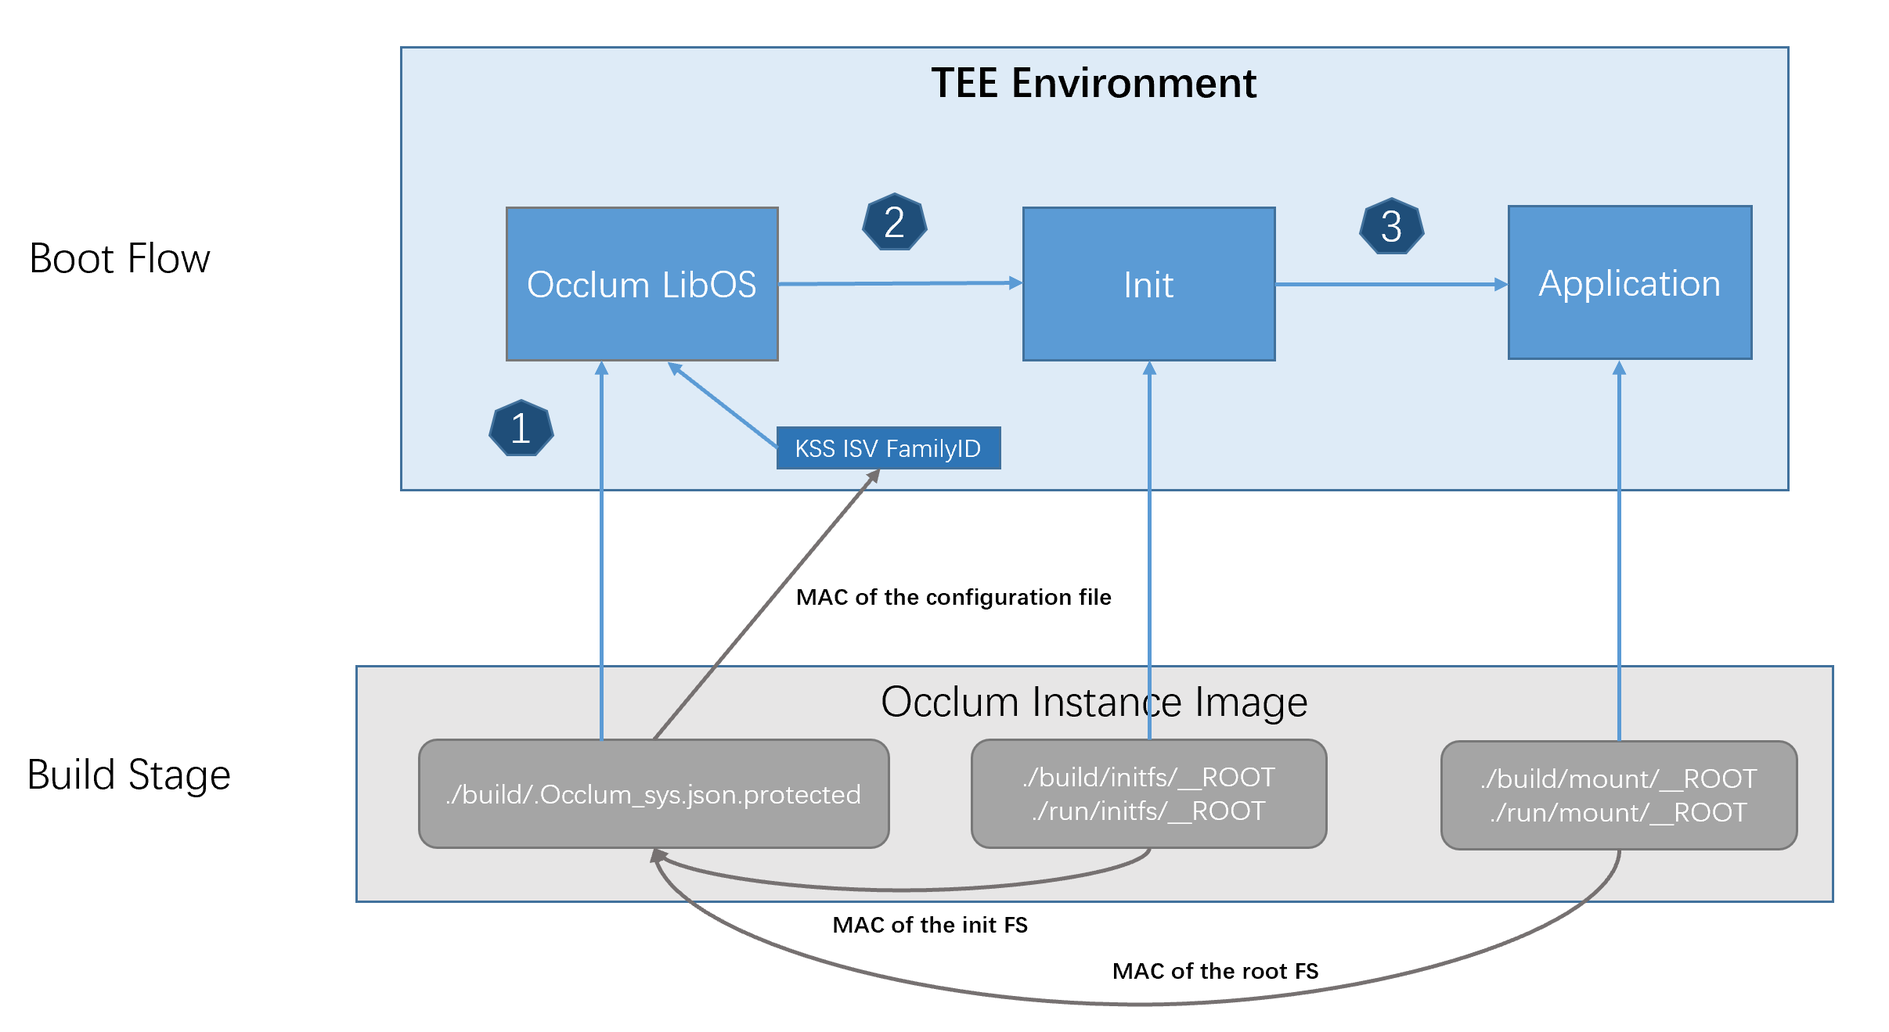
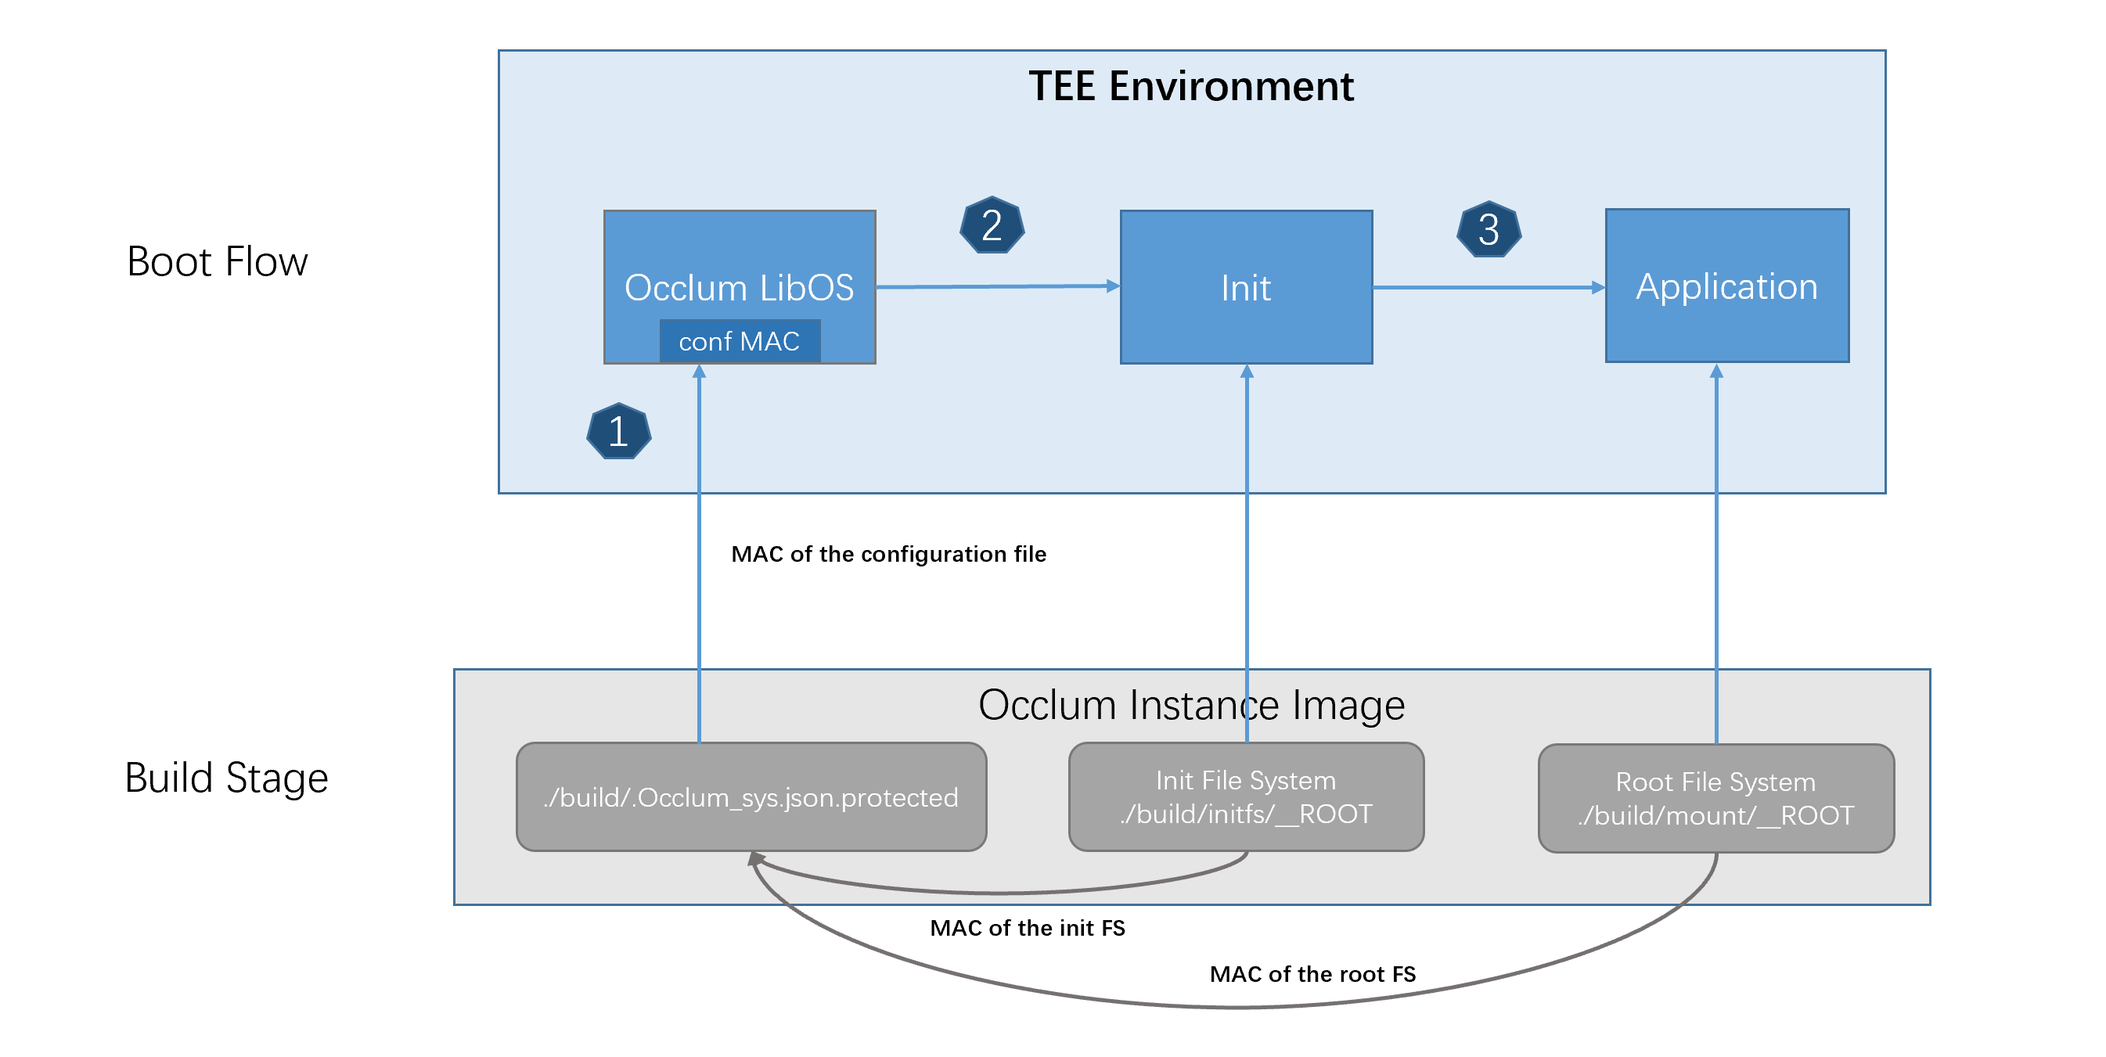
Update content for Occlum

diff --git a/docs/readthedocs/docs/source/occlum_configuration.md b/docs/readthedocs/docs/source/occlum_configuration.md
@@ -1,159 +1,112 @@
 # Occlum Configuration
 
-Occlum can be configured easily via a configuration file named `Occlum.yaml`, which is generated by the `occlum init` command in the Occlum instance directory. The user can modify `Occlum.yaml` to configure Occlum. The template of `Occlum.yaml` is shown below.
+Occlum can be configured easily via a configuration file named `Occlum.json`, which is generated by the `occlum init` command in the Occlum instance directory. The user can modify `Occlum.json` to configure Occlum. The template of `Occlum.json` is shown below.
 
-```yaml
-# All the settings below can only take effect after `occlum build`.
-resource_limits:
-  # The number of OS threads created for this instance.
-  num_of_cpus: 128
-  # The stack size of LibOS kernel.
-  kernel_space_stack_size: 16MB
-  # The heap size of LibOS kernel.
-  # With EDMM support, choose "init" size based on the expected initialization time. And increase the "max" field if memory insufficiency occurs.
-  # Without EDMM support, increase the "init" field if memory insufficiency occurs. And the "max" field is ignored.
-  kernel_space_heap_size:
-    # Reserved and committed during the initialization stage. The more, the longer it takes to initialize.
-    init: 32MB
-    # Only committed when necessary. Only valid with EDMM support.
-    max:  512MB
-  # The total size of enclave memory available to the user applications running in LibOS.
-  # With EDMM support, choose "init" size based on the expected initialization time. And increase the "max" field if memory insufficiency occurs.
-  # Without EDMM support, increase the "init" field if memory insufficiency occurs. And the "max" field is ignored.
-  user_space_size:
-    # Reserved and committed during the initialization stage. The more, the longer it takes to initialize.
-    init: 256MB
-    # Only committed when necessary. Only valid with EDMM support.
-    max:  64GB
-process:
-  # Default stack size for each process. If not sure, don't modify it.
-  default_stack_size: 4MB
-  # Default heap size for each process. If not sure, don't modify it.
-  default_heap_size: 32MB
-
-# Entry points
-# Specify all valid absolute <path> in `occlum run <path> <args>`.
-# This prevents outside attackers from executing arbitrary commands inside an
-# Occlum-powered enclave.
-entry_points:
-  - /bin
-
-# Environment variables
-#
-# This gives a list of environment variables for the "root" process started
-# by `occlum run` or `occlum exec` command.
-env:
-  # The default env vars given to each "root" LibOS process. As these env vars
-  # are specified in this config file, they are considered trusted.
-  default:
-    - OCCLUM=yes
-  # The untrusted env vars that are captured by Occlum from the host environment
-  # and passed to the "root" LibOS processes. These untrusted env vars can
-  # override the trusted, default envs specified above.
-  # For example, `OCCLUM=no occlum run xxx` can pass the env OCCLUM=no to the process
-  # running in LibOS with below settings.
-  #     env:
-  #       default:
-  #         - OCCLUM=yes
-  #       untrusted:
-  #         - OCCLUM
-  untrusted:
-    - EXAMPLE
-
-# Enclave metadata
-# If not sure, just keep them no change
-metadata:
-  # Enclave signature structure's ISVPRODID field
-  product_id: 0
-  # Enclave signature structure's ISVSVN field
-  version_number: 0
-  # Whether the enclave is debuggable through special SGX instructions.
-  # If set to false, no log could be output.
-  # For production enclave, it is IMPORTANT to set this value to false.
-  debuggable: true
-  # SGX Key Separation and Sharing feature support.
-  # Please always keep it as true.
-  enable_kss: true
-  # Enclave signature structure's ISVEXTPRODID field.
-  # It is separated as two 16 bytes strings.
-  ext_prod_id:
-    high: '0x0'
-    low: '0x0'
-  # Whether to turn on PKU feature in Occlum
-  # Occlum uses PKU for isolation between LibOS and userspace program,
-  # It is useful for developers to detect potential bugs.
-  #
-  # "pkru" = 0: PKU feature must be disabled
-  # "pkru" = 1: PKU feature must be enabled
-  # "pkru" = 2: PKU feature is enabled if the platform supports it
-  pkru: 0
-
-# Mount points and their file systems
-mount:
-  # RootFS mount point and file systems.
-  # Generally, just don't change it.
-  - target: /
-    type: unionfs
-    options:
-      layers:
-        # The read-only layer which is generated in `occlum build`
-        - target: /
-          type: sefs
-          source: ./build/mount/__ROOT
-          options:
-            MAC: ''
-        # The read-write layer whose content is produced when running the LibOS
-        - target: /
-          type: sefs
-          source: ./run/mount/__ROOT
-          # options:
-          # The SEFS just uses MRSIGNER to drived key by default, so the data can
-          # be shared between same enclave signer on the same machine.
-          # If you want more secure scheme, you can set the autokey_policy field
-          # to 1 to enforcing the key is derived by MRSIGNER|MRENCLAVE|ISVFAMILYID.
-          # So the data can only be accessed by the enclave itself.
-          #  autokey_policy: 1
-  #
-  # HostFS mount
-  # It provides a channel to exchange files between Host FS and LibOS FS.
-  # Just note, with this mount, the files written to the target in the LibOS
-  # is recognizable to users in the Host thus may introduce security issue.
-  #
-  # For example, below section mount the occlum_instance directory in the Host FS
-  # to the path /host in the LibOS FS.
-  # It is disabled in default. Uncomment it if you are very sure about it.
-  # - target: /host
-  #   type: hostfs
-  #   source: .
-  #
-  # Async FS mount
-  # - target: /sfs
-  #   type: async_sfs
-  #   source: ./run/async_sfs_image
-  #   options:
-  #     total_size: 4GB
-
-# Untrusted Unix domain socket
-# Besides the common Unix domain socket support that both ends are created in the same
-# Occlum instance, the Untrusted Unix domain socket can support cross-world connection by
-# mapping a libos socket address with the host socket address. In this way, a Unix domain
-# socket created in Occlum can communicate with a Unix domain socket in the host OS or in
-# another Occlum instance.
-# Uncomment and customize below if you are very sure about it.
-#
-# untrusted_unix_socks:
-# The libos path and the host path correspond to the same host sock file.
-# The host side should use the host path and libos side should use the libos path.
-#
-# Specify socket file in absolute path
-  # - host: /tmp/occlum/test.sock
-  #   libos: /root/test.sock
-# Or any files in the path
-  # - host: /tmp/root/
-  #   libos: /root/
-# Or the host path can be a relative path and is relative to the current Occlum instance dir.
-  # - host: ../test.sock
-  #   libos: /tmp/test.sock
+```json
+{
+    // Resource limits
+    "resource_limits": {
+        // The total size of enclave memory available to LibOS processes
+        "user_space_size": "256MB",
+        // The heap size of LibOS kernel
+        "kernel_space_heap_size": "32MB",
+        // The stack size of LibOS kernel
+        "kernel_space_stack_size": "1MB",
+        // The max number of LibOS threads/processes
+        "max_num_of_threads": 32
+    },
+    // Process
+    "process": {
+        // The stack size of the "main" thread
+        "default_stack_size": "4MB",
+        // The max size of memory allocated by brk syscall
+        "default_heap_size": "16MB",
+        // The max size of memory by mmap syscall (OBSOLETE. Users don't need to modify this field. Keep it only for compatibility)
+        "default_mmap_size": "32MB"
+    },
+    // Entry points
+    //
+    // Entry points specify all valid path prefixes for <path> in `occlum run
+    // <path> <args>`. This prevents outside attackers from executing arbitrary
+    // commands inside an Occlum-powered enclave.
+    "entry_points": [
+        "/bin"
+    ],
+    // Environment variables
+    //
+    // This gives a list of environment variables for the "root"
+    // process started by `occlum exec` command.
+    "env": {
+        // The default env vars given to each "root" LibOS process. As these env vars
+        // are specified in this config file, they are considered trusted.
+        "default": [
+            "OCCLUM=yes"
+        ],
+        // The untrusted env vars that are captured by Occlum from the host environment
+        // and passed to the "root" LibOS processes. These untrusted env vars can
+        // override the trusted, default envs specified above.
+        "untrusted": [
+            "EXAMPLE"
+        ]
+    },
+    // Enclave metadata
+    "metadata": {
+        // Enclave signature structure's ISVPRODID field
+        "product_id": 0,
+        // Enclave signature structure's ISVSVN field
+        "version_number": 0,
+        // Whether the enclave is debuggable through special SGX instructions.
+        // For production enclave, it is IMPORTANT to set this value to false.
+        "debuggable": true,
+        // Whether to turn on PKU feature in Occlum
+        // Occlum uses PKU for isolation between LibOS and userspace program,
+        // It is useful for developers to detect potential bugs.
+        //
+        // "pkru" = 0: PKU feature must be disabled
+        // "pkru" = 1: PKU feature must be enabled
+        // "pkru" = 2: PKU feature is enabled if the platform supports it
+        "pkru": 0
+    },
+    // Mount points and their file systems
+    //
+    // The default configuration is shown below.
+    "mount": [
+        {
+            "target": "/",
+            "type": "unionfs",
+            "options": {
+                "layers": [
+                    {
+                        "target": "/",
+                        "type": "sefs",
+                        "source": "./build/mount/__ROOT",
+                        "options": {
+                            "MAC": ""
+                        }
+                    },
+                    {
+                        "target": "/",
+                        "type": "sefs",
+                        "source": "./run/mount/__ROOT"
+                    }
+                ]
+            }
+        },
+        {
+            "target": "/host",
+            "type": "hostfs",
+            "source": "."
+        },
+        {
+            "target": "/proc",
+            "type": "procfs"
+        },
+        {
+            "target": "/dev",
+            "type": "devfs"
+        }
+    ]
+}
 ```
 
 ## Runtime Resource Configuration for Occlum process
@@ -164,7 +117,7 @@ Occlum has enabled per process resource configuration via [prlimit](https://man7
 #! /usr/bin/bash
 ulimit -a
 
-# ulimit defined below will override configuration in Occlum.yaml
+# ulimit defined below will override configuration in Occlum.json
 ulimit -Ss 10240 # stack size 10M
 ulimit -Sd 40960 # heap size 40M
 ulimit -Sv 102400 # virtual memory size 100M (including heap, stack, mmap size)

diff --git a/docs/readthedocs/docs/source/boot_flow.md b/docs/readthedocs/docs/source/boot_flow.md
@@ -14,13 +14,12 @@ There are total three MACs which are all generated in building stage and verifie
 
 * MAC of the configuration file. Both above MACs are filled into the configuration file. Thus the MAC of the configuration file reflects the differences of the two file systems to some extent.
 
-* **mrenclave**, it indicates the measurement of the Occlum LibOS.
 
 ## Boot flow
 
-1. To user, the entry point is the command `occlum run`. The steps behind the command are PAL APIs `occlum_pal_init` and `occlum_pal_create_process`. It launches the Occlum LibOS kernel in the Enclave. The kernel then loads the configuration file `.Occlum_sys.json.protected`, doing integrity check with the MAC saved in `KSS ISV FamilyID`. If pass, it uses the settings in the configuration file to do memory/process initialization. Then, it tries mount the init filesystem. It does integrity check again with MAC in the `.Occlum_sys.json.protected`. If pass, the first user space process `init` got launched.
+1. To user, the entry point is the command `occlum run`. The steps behind the command are PAL APIs `occlum_pal_init` and `occlum_pal_create_process`. It launches the Occlum LibOS kernel in the Enclave. The kernel then loads the configuration file `.Occlum_sys.json.protected`, doing integrity check with the MAC saved in the LibOS section **builtin_config** (marked as `conf_mac` in the picture). If pass, it uses the settings in the configuration file to do memory/process initialization. Then, it tries mount the init filesystem. It does integrity check again with init FS MAC in the `.Occlum_sys.json.protected`. If pass, the first user space process `init` got launched.
 
-2. There is a default minimal `init` provided. In this `init`, it calls the Occlum added syscall `SYS_MOUNT_FS` to mount the application file system. The syscall implementation in the Occlum kernel does integrity check again with MAC in the `.Occlum_sys.json.protected` to make sure expected application got launched.
+2. There is a default minimal `init` provided. In this `init`, it calls the Occlum added syscall `SYS_MOUNT_FS` to mount the application file system. The syscall implementation in the Occlum kernel does integrity check again with root FS MAC in the `.Occlum_sys.json.protected` to make sure expected application got launched.
 
 3. At this stage, the real user application got launched.
 

diff --git a/docs/readthedocs/docs/source/filesystem/mount.md b/docs/readthedocs/docs/source/filesystem/mount.md
@@ -30,7 +30,7 @@ To mount an Occlum's secure FS image successfully, three conditions must be sati
 
 With the three conditions satisfied, the mount command is able to start a Linux FUSE FS server. Any I/O operations on the FUSE FS mounted at the specified path will be redirected by Linux kernel as I/O requests to the FUSE server. The FUSE server is backed by a special enclave, which can encrypt or decrypt the content of the secure FS image on demand.
 
-Please note that if the `autokey_policy` field of the configurations of FS is set in Occlum.yaml, the mount command will not work. This is because the MRENCLAVE is used as an input to generate the encryption key, and the mount tool cannot mimic it.
+Please note that if the `autokey_policy` field of the configurations of FS is set in Occlum.json, the mount command will not work. This is because the MRENCLAVE is used as an input to generate the encryption key, and the mount tool cannot mimic it.
 
 The mount command **will not return** until the FUSE server is terminated in one of the two ways. The first one is to press ctrl+C. The second one is to use `umount` command. Both ways can terminate the server gracefully.
 
@@ -49,7 +49,7 @@ After mounting the secure FS successfully, you can access and manipulate the FS 
 ## Mount and Unmount Filesystems at Runtime
 
 ### Background
-Users can specify the mount configuration in the `Occlum.yaml` file, then the file systems are mounted during the libOS startup phase. While this design provides a safe and simple way to access files, it is not as convenient as traditional Host OS. Apps are not allowed to mount and unmount file systems at runtime.
+Users can specify the mount configuration in the `Occlum.json` file, then the file systems are mounted during the libOS startup phase. While this design provides a safe and simple way to access files, it is not as convenient as traditional Host OS. Apps are not allowed to mount and unmount file systems at runtime.
 
 ### How to mount filesystems at runtime?
 Apps running inside Occlum can mount some specific file systems via the [mount()](https://man7.org/linux/man-pages/man2/mount.2.html) system call. This makes it flexible to mount and access files at runtime.

diff --git a/docs/readthedocs/docs/source/quickstart.md b/docs/readthedocs/docs/source/quickstart.md
@@ -6,9 +6,9 @@
 
 First, please make sure the baremetal or VM machine support SGX. Otherwise, users can only try SW simulation mode.
 
-From Occlum v1.0, only SGX2 or SGX1 with [FLC](https://www.intel.com/content/www/us/en/developer/articles/technical/an-update-on-3rd-party-attestation.html)(Flexible Launch Control) feature are supported. 
+To have best user experience, SGX2 or SGX1 with [FLC](https://www.intel.com/content/www/us/en/developer/articles/technical/an-update-on-3rd-party-attestation.html)(Flexible Launch Control) feature are required. 
 
-Users can use command `cpuid` to detect if the HW satisfy Occlum v1.0 requirements.
+Users can use command `cpuid` to detect if the HW satisfy Occlum requirements.
 
 * SGX2, ```cpuid | grep SGX2```
 * FLC, ```cpuid | grep SGX_LC```
@@ -17,7 +17,7 @@ Users can use command `cpuid` to detect if the HW satisfy Occlum v1.0 requiremen
 
 #### Kernel Version
 
-From Occlum v1.0, the `io_uring` is used to enhance the IO performance. The `io_uring` is first introduced in Linux kernel 5.1 and still fast growing. To make Occlum v1.0 works well with `io_uring` and also the SGX in-tree driver, Linux kernel 5.10+ is expected.
+To use SGX in-tree driver, Linux kernel 5.10+ is expected.
 
 For example, in the Ubuntu 20.04 OS (Occlum default development OS), users could update the kernel with below command to get all Occlum required kernel features.
 ```

diff --git a/docs/readthedocs/docs/source/build_and_install.md b/docs/readthedocs/docs/source/build_and_install.md
@@ -51,7 +51,7 @@ The Occlum Dockerfile can be found at [here](https://github.com/occlum/occlum/tr
 By default, the `occlum build` command builds and signs enclaves in debug mode. These SGX debug-mode enclaves are intended for development and testing purposes only. For production usage, the enclaves must be signed by a key acquired from Intel (a restriction that will be lifted in the future when Flexible Launch Control is ready) and run with SGX debug support disabled.
 
 Occlum has built-in support for both building and running enclaves in release mode.
-To do that, modify `Occlum.yaml` [metadata]-[debuggable] field to `false`. And then run the commands below:
+To do that, modify `Occlum.json` [metadata]-[debuggable] field to `false`. And then run the commands below:
 ```
 $ occlum build --sign-key <path_to/your_key.pem>
 $ occlum run <prog_path> <prog_args>

diff --git a/docs/readthedocs/docs/source/occlum_cmds.md b/docs/readthedocs/docs/source/occlum_cmds.md
@@ -21,7 +21,7 @@ Initialize a directory as the Occlum instance.
 ```bash
 occlum build [--sign-key <key_path>] [--sign-tool <tool_path>] [--image-key <key_path>] [-f/--force]
 ```
-Build and sign an Occlum SGX enclave (.so) and generate its associated secure FS image according to the user-provided image directory and Occlum.yaml config file.
+Build and sign an Occlum SGX enclave (.so) and generate its associated secure FS image according to the user-provided image directory and Occlum.json config file.
 The whole building process is incremental: the building artifacts are built only
 when needed.
 To force rebuilding all artifacts, give the [-f/--force] flag.

diff --git a/docs/readthedocs/docs/source/remote_attestation.md b/docs/readthedocs/docs/source/remote_attestation.md
@@ -55,12 +55,9 @@ ISVEXTPRODID, 16 bytes
 CONFIG ID, 64 bytes
 CONFIG SVN, 16 bits
 ```
-Occlum can support both above by either modifying the fields in `Occlum.yaml` (for `Signning stage`) or using Occlum run arguments `"--config-id"` or `"--config-svn"` (for `Running stage`).
-
-* Note: `ISVFAMILYID` is reserved for saving the MAC of the configuration file.
+Occlum can support both above by either modifying the fields in `Occlum.json` (for `Signning stage`) or using Occlum run arguments `"--config-id"` or `"--config-svn"` (for `Running stage`).
 
 Details please refer to the [RFC](https://github.com/occlum/occlum/issues/589).
-
 
 ## References
 

diff --git a/docs/readthedocs/docs/source/filesystem/fs_overview.md b/docs/readthedocs/docs/source/filesystem/fs_overview.md
@@ -137,7 +137,7 @@ The HostFS is used for convenient data exchange between the LibOS and the host O
 ## RamFS and other pseudo filesystems
 The RamFS and other pseudo filesystems like ProcFS use the memory as the storage. So the data may lose if one terminates the enclave.
 
-Please remember to enlarge the `kernel_space_heap_size` of Occlum.yaml if your app depends on RamFS.
+Please remember to enlarge the `kernel_space_heap_size` of Occlum.json if your app depends on RamFS.
 
 ## Q & A
 

diff --git a/docs/readthedocs/docs/source/index.rst b/docs/readthedocs/docs/source/index.rst
@@ -7,11 +7,6 @@ As a LibOS, it enables legacy applications to run on SGX with little or even no 
 .. image:: images/arch_overview.png
    :alt: Occlum Arch Overview
 
-.. note::
-
-   This project is under active development.
-   There is no guarantee that the content here are all up to date.
-
 *****************
 Table of Contents
 *****************

diff --git a/docs/readthedocs/docs/source/tutorials/gen_occlum_instance.md b/docs/readthedocs/docs/source/tutorials/gen_occlum_instance.md
@@ -3,7 +3,7 @@
 For every application to be running in Occlum (TEE env), all the running required files, libraries and binaries have to be put into Occlum file system. Here is the tree view of one Occlum instance.
 ```
 ./occlum_instance/
-|-- Occlum.yaml
+|-- Occlum.json
 |-- build
 |-- image       // Occlum root file system
 |   |-- bin
